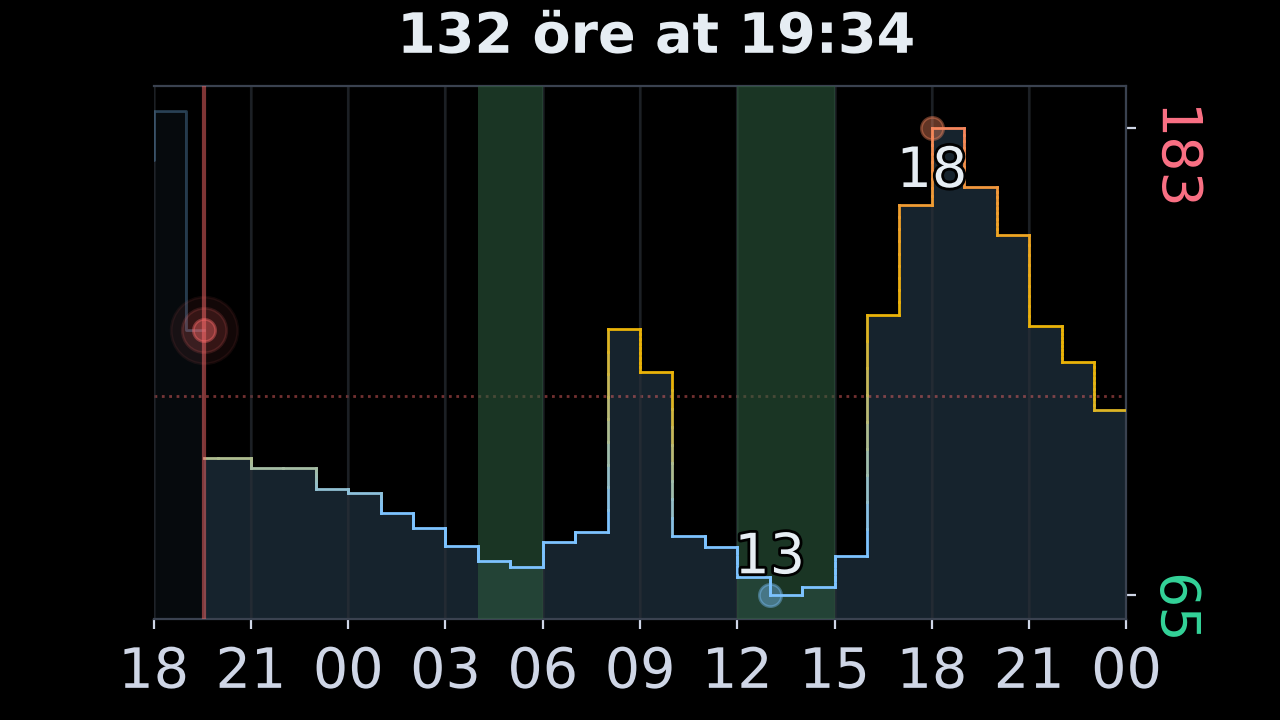
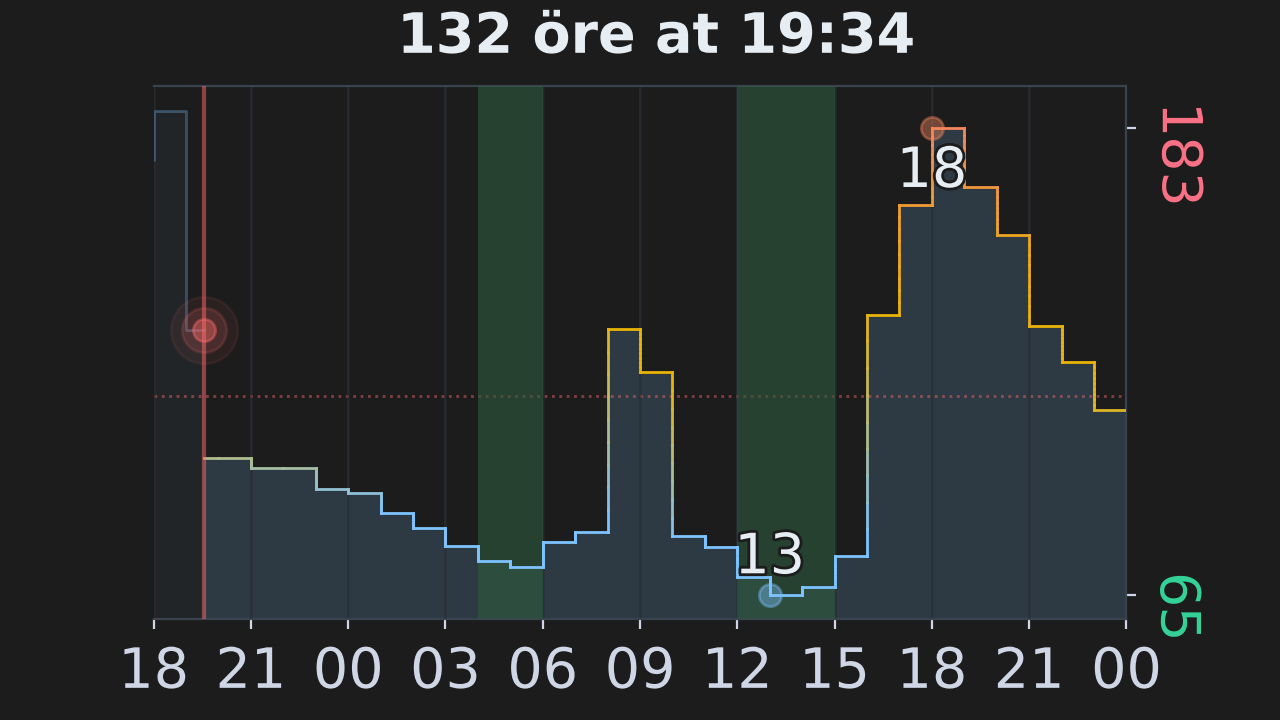
Update README.md

diff --git a/tests/local_render/local_render.py b/tests/local_render/local_render.py
@@ -7,6 +7,7 @@ Usage:
     python local_render.py --old-defaults     # Use old default values (before recent changes)
     python local_render.py --random           # Use random generated price data instead of real Tibber data
     python local_render.py --time 19:34       # Simulate a specific time (e.g., 19:34 today)
+    python local_render.py --black-background # Force black background instead of transparent
 
 This will generate a rendered graph image at 'tests/local_render.png'.
 """
@@ -18,6 +19,7 @@ from pathlib import Path
 config_mode = 'test'  # 'test', 'wearos', 'defaults', or 'old_defaults'
 use_random_data = False
 fixed_time = None
+force_black_background = False
 
 i = 1
 while i < len(sys.argv):
@@ -42,6 +44,9 @@ while i < len(sys.argv):
         else:
             print("Error: --time requires a time argument (e.g., --time 19:34)")
             sys.exit(1)
+    elif arg in ('--black-background', '-b'):
+        force_black_background = True
+        print("Forcing black background (overriding transparent background)")
     elif arg in ('--help', '-h'):
         print(__doc__)
         sys.exit(0)
@@ -382,6 +387,16 @@ def main():
             "label_minmax_show_price": False,  # Override: show only time on min/max labels (default: True)
         }
         print("Using Wear OS configuration: dark theme, hourly prices, öre currency")
+
+    # Apply black background override if requested
+    if force_black_background:
+        if render_options is None:
+            render_options = {}
+        render_options["transparent_background"] = False
+        # Ensure we're using dark theme colors for background
+        if "theme" not in render_options or render_options["theme"] != "light":
+            render_options["theme"] = "dark"
+        print("Overriding transparent background with black background")
 
     print("Generating sample price data...")
     dates_raw, prices_raw, now_local = generate_price_data(

diff --git a/README.md b/README.md
@@ -219,7 +219,7 @@ template:
         #                                                              |      |      |
         #                                     convert to SEK per kWh --┘      |      |
         #                                     add 25% VAT --------------------┘      |
-        #                                     add 0.086 SEK/kWh grid fee ------------┘
+        #                                     add 0.086 SEK/kWh markup --------------┘
         unit_of_measurement: SEK/kWh
         state_class: total
         device_class: monetary
@@ -247,9 +247,9 @@ Install and configure the [EPEX Spot integration](https://github.com/mampfes/ha_
 
 ```yaml
 attributes:
-  [prices|data]:
-    - "start_time"|"start"|"startAt": datetime # ISO 8601 datetime string
-      "price"|"price_per_kwh"|"total": float     # Price per kWh
+  {prices|data}:
+    - {"start_time"|"start"|"startAt"}: datetime # datetime string in ISO 8601 format
+      {"price"|"price_per_kwh"|"total"}: float   # price per kWh
     - ...
 ```
 
